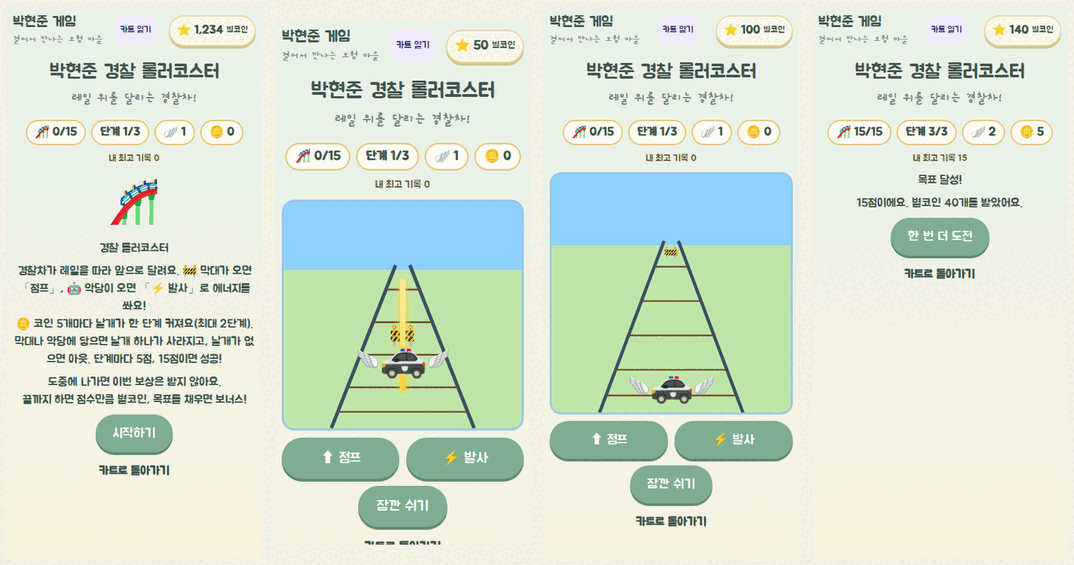
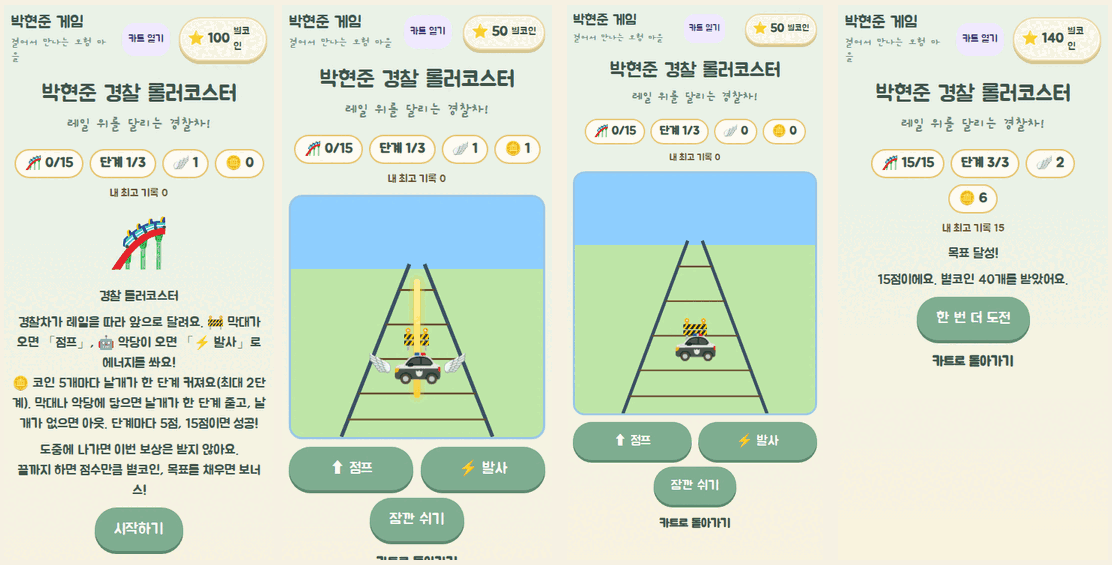
Refresh the plan for PRs #65-#68 and retake the coaster strip
Record the merged decisions, robot preview and roller coaster in the
next-actions plan, add the header coin badge wrap (A8) and start-screen
art question (B8), and replace the coaster strip with live-site shots
that show the final intro text.

Claude-Session: https://claude.ai/code/session_01MZze2FGy8ZHKbdy2SZDpfz

diff --git a/docs/superpowers/plans/2026-11-11-next-actions.md b/docs/superpowers/plans/2026-11-11-next-actions.md
@@ -1,6 +1,6 @@
 # 다음 작업 계획과 액션 아이템 (2026-11-11)
 
-> 기준: `origin/main` `0a94cf3`(2026-11-14, PR #64까지 병합·배포). 처음 작성은 2026-11-11 `344d819`(PR #56) 기준이었다.
+> 기준: `origin/main` `dc7f415`(2026-11-15, PR #68까지 병합·배포). 처음 작성은 2026-11-11 `344d819`(PR #56) 기준이었다.
 > 표기: FACT · PROPOSED · DECISION REQUIRED · NOT_RUN. 루트 `MEMORY.md`의 "다음 작업"은 이 문서를 가리킨다.
 
 ## 1. 중간 점검 (FACT)
@@ -10,8 +10,9 @@
 | 시작 화면 → 로딩 → 월드 | 배포됨 (PR #53) | [world-entry](../../world-expansion/2026-11-07-world-entry/README.md) |
 | 로켓 · 로켓 X · 듀얼 로켓 | 배포됨 (PR #54 · #56): 자동차 변신, 10초 4단계 합체, 듀얼 로켓 카, 분리 | [rocket-dual-v1](../../robot-fusion/2026-11-08-rocket-dual-v1/README.md) |
 | 카트 미니게임 | **20개 모두 플레이 가능** (PR #57 병합·배포) | [arcade 검증](../../verification/2026-11-10-arcade/README.md) |
-| 카트 큰 게임 | 21개 중 20개 플레이 가능(월드·러너·온실·방 깨기 + 6~9회차 15개, PR #58 병합·배포 + 2026-11-15 경찰 롤러코스터 `lg-21`) + 1개 기존 연결(하우스). **목록 41개 중 준비 중 0** | [큰 게임 검증](../../verification/2026-11-12-large-games/README.md) |
-| 공개 사이트 검사 | 병합 뒤 공개 Pages에서 `verify-arcade` 205/205 PASS(아케이드 34개 × 360·390). PR #64 뒤 고친 4개 게임 25/25 PASS | PR #58 · #64 병합 기록 |
+| 카트 큰 게임 | 21개 중 20개 플레이 가능(월드·러너·온실·방 깨기 + 6~9회차 15개, PR #58 병합·배포 + 경찰 롤러코스터 `lg-21` PR #68 병합·배포) + 1개 기존 연결(하우스). **목록 41개 중 준비 중 0** | [큰 게임 검증](../../verification/2026-11-12-large-games/README.md) · [롤러코스터 검증](../../verification/2026-11-15-coaster/README.md) |
+| 로봇 시계 「곧 만날 로봇」 | 배포됨 (PR #67): 블루카비·황금 칼드케이트 그림과 소개만. 로봇 목록·전설·군단·저장은 그대로 | [blue-gold §6.1](../../robot-fusion/2026-11-08-blue-gold/README.md) |
+| 공개 사이트 검사 | 병합 뒤 공개 Pages에서 `verify-arcade` 205/205 PASS(아케이드 34개 × 360·390). PR #64 뒤 고친 4개 게임 25/25 PASS. PR #67 뒤 `verify-robot-roster` PASS(미리보기 포함), PR #68 뒤 롤러코스터 7/7 · `verify-world-entry` · `verify-kart-hub`(41개) PASS | PR #58 · #64 · #67 · #68 병합 기록 |
 | Lovable 제거 | 2026-11-13부터 쓰지 않음. 문서·`.lovable/` 정리(PR #62), 빌드 래퍼·미리보기 로그인 중개 제거와 `bun.lock`을 기본 npm 레지스트리로(PR #63) | PR #62 · #63 |
 | 저장 | 키 `hyunjun-game-v2`, version 3 유지. 미니게임 최고 기록 `arcadeBest` 추가(옛 저장은 0) | `src/lib/world-model.ts` |
 | 실기기 UAT | NOT_RUN (삼성 브라우저·S Pen·iOS) | 모든 기능 공통 |
@@ -66,7 +67,7 @@
 
 회차마다: `npm run check` → `build` → `build:pages` → `verify-arcade`(새 게임) → `verify-kart-hub`·`verify-world-entry`·`verify-peanuts`를 하나씩 순서대로. 마지막 회차에 로봇·생활 회귀와 독립 리뷰 1회.
 
-## 3. 액션 아이템 (2026-11-12 갱신)
+## 3. 액션 아이템 (2026-11-15 갱신)
 
 ### A. 에이전트
 
@@ -78,7 +79,8 @@
 | A3 | 병합 뒤 공개 주소 검사와 브랜치 정리 | 완료. 공개 Pages `verify-arcade` 205/205, 병합된 브랜치·worktree 삭제 |
 | A4 | 독립 코드 리뷰 | 2026-11-14: Codex는 다시 402(워크스페이스 비활성)라 Claude `/code-review`(high)로 대신했다(PR #64). 아케이드·미니/큰 게임 엔진·저장·빌드 설정 대상 10건 중 고침: 전설 합체 순서에 같은 부품이 연달아 나와 한 번 깜박임처럼 보이던 문제(회귀 테스트 추가), 자동차 챔피언 안내문(라이벌은 부스트 없는 차보다 느림), 꾹 누르는 버튼(하늘 러너·파도타기)이 휴대폰 길게 누르기 메뉴로 풀리던 문제, 끝난 순간 일시정지되면 정산되지 않던 문제, 장식 환불·사탕 보상의 돈 상한, 아무 데도 안 쓰던 `src/integrations/supabase`(가족방과 같은 로그인 저장 키를 써서 토큰 갱신이 충돌할 수 있었음) 삭제. 고치지 않음: dev 서버 `host: "::"`(Lovable 래퍼도 샌드박스 밖에서 같은 값이었음, 동작 변화 없음), 카운트다운 중복·`seeded()` 중복은 2026-11-14 정리 PR에서 공통 `countdown()`으로 묶고 `seeded()`를 지웠다(D2) |
 | A5 | 난이도 조정 PR | B1·B4 결과가 나오면. 너무 어렵거나 쉬운 게임의 목표 수·시간·단계만 고친다 |
-| A6 | 로봇 계획 v0.2 구현 (블루카비·황금 칼드케이트 포함) | 1단계 완료(2026-11-14): R-01~R-08 기본 동작 승인에 따라 시계 「곧 만날 로봇」 미리보기만. 로봇 종류·저장·군단·전설은 그대로([blue-gold §6.1](../../robot-fusion/2026-11-08-blue-gold/README.md)). 실제 변신·황금 전기·합체 확장과 티라 외형·레인보우 삼총사는 B6 남은 결정 뒤 |
+| A6 | 로봇 계획 v0.2 구현 (블루카비·황금 칼드케이트 포함) | 1단계 병합·배포(PR #67): R-01~R-08 기본 동작 승인에 따라 시계 「곧 만날 로봇」 미리보기만. 로봇 종류·저장·군단·전설은 그대로([blue-gold §6.1](../../robot-fusion/2026-11-08-blue-gold/README.md)). 실제 변신·황금 전기·합체 확장과 티라 외형·레인보우 삼총사는 B6 남은 결정 뒤 |
+| A8 | 위쪽 별코인 배지: 360 폭에서 세 자리 수(100 이상)일 때 「별코인」 글자가 두 줄로 접힌다(2026-11-15 공개 사이트 롤러코스터 화면에서 발견, 가로 스크롤은 없음) | 할 일. 공통 머리말이라 모든 아케이드 화면에 해당 |
 
 ### B. 보호자 확인이 필요한 것 (DECISION REQUIRED)
 
@@ -88,9 +90,10 @@
 | B2 | 듀얼 로켓 합체 10초가 길지 않은가 (rocket Q-01) | **DECISION (2026-11-14): 10초 유지.** 실기기 놀이에서 지루하면 다시 연다 |
 | B3 | 로켓 카드를 시계 맨 앞으로 옮길까 (rocket P-07) | **DECISION (2026-11-14): 「다른 로봇」 칸 유지** |
 | B4 | 미니게임·큰 게임 잠정 규칙과 난이도(목표 수·시간·단계) | **DECISION (2026-11-14): §2 규칙 승인.** 난이도 숫자 조정(A5)은 실기기 놀이(B1) 결과가 나오면 |
-| B5 | 롤러코스터를 목록 40개 안에 넣을지(D-6) | **DECISION (2026-11-15): 롤러코스터를 큰 게임 `lg-21`로 추가**(보호자 요청 「박현준 롤러 코스터 없음. 만들어줘」), 카트 목록 41개. 월드의 준비 중 장소가 이 게임을 연다 |
+| B5 | 롤러코스터를 목록 40개 안에 넣을지(D-6) | **DECISION (2026-11-15): 롤러코스터를 큰 게임 `lg-21`로 추가**(보호자 요청 「박현준 롤러 코스터 없음. 만들어줘」), 카트 목록 41개. 월드의 준비 중 장소가 이 게임을 연다. PR #68 병합·배포 |
 | B6 | 로봇 중심 실행계획 v0.2의 남은 질문: 티라 외형 변경, 레인보우 삼총사(골드·에메랄드·다이아몬드), 황금 전기·성장(D-2·D-3) | 결정 대기 |
 | B7 | 실명 노출 범위(D-7): 새 게임 이름도 「박현준 …」 | **DECISION (2026-11-14): 기존 브랜드 유지**(「박현준 게임」 + 부제). 새 게임 이름에 실명을 더하지 않는다 |
+| B8 | 시작 화면 그림을 블루카비로 바꿀지 | 결정 대기. 지금은 기존 그림 |
 
 ### C. 정리
 
@@ -103,6 +106,8 @@
 | C5 | `verify-family-performance` 기준 재설정 | 완료 (PR #64). 기본값을 CPU 감속 없음·이동 30fps 이상·실제 이동 확인으로 바꿨다. 기준선(2026-11-14, 8코어 WSL headless): 1배 이동 56~58fps, 4배 감속 6~12fps(흔들림이 커서 기준으로 쓰지 않고 `PHJ_CPU_RATE=4 PHJ_MIN_FPS=0`으로 기록만). 다른 작업과 동시에 돌리면 같은 빌드가 약 20fps로 떨어지므로 혼자 돌린다 |
 | A7 | 이 문서에 PR #59~#64 반영 | 완료 (PR #64, 상태 표기 보정 D1) |
 | C6 | `chore/untrack-env-20261108`: `.env` 추적 해제 | 완료 (PR #59) |
-| C7 | `legacy/park-runner-game` 보관 폴더 삭제 | 완료 (2026-11-14 보호자 승인). 이력은 git(PR #55)에 남는다 |
-| D1 | 이 문서의 옛 상태 표기(C1·C2) 보정, PR #64 반영 | 완료 |
-| D2 | 리뷰 정리 거리: 시간제 게임 8개의 같은 시간 코드를 `arcade.ts` `countdown()`으로, 쓰이지 않던 `seeded()` 삭제 | 완료 |
+| C7 | `legacy/park-runner-game` 보관 폴더 삭제 | 완료 (2026-11-14 보호자 승인, PR #66). 이력은 git(PR #55)에 남는다 |
+| D1 | 이 문서의 옛 상태 표기(C1·C2) 보정, PR #64 반영 | 완료 (PR #65) |
+| D2 | 리뷰 정리 거리: 시간제 게임 8개의 같은 시간 코드를 `arcade.ts` `countdown()`으로, 쓰이지 않던 `seeded()` 삭제 | 완료 (PR #65) |
+| D3 | 이 문서에 PR #65~#68 반영 | 완료 |
+| D4 | 롤러코스터 검증 스크린샷 띠를 마지막 안내 문구로 다시 찍기 | 완료. 공개 사이트에서 다시 찍음 |

diff --git a/docs/verification/2026-11-15-coaster/README.md b/docs/verification/2026-11-15-coaster/README.md
@@ -16,7 +16,9 @@
 | 목표 · 보상 | 15점이면 성공. 점수 × 2 + 완주 보너스 10 = 한 판 최대 40 별코인 |
 | 바뀌지 않은 것 | 로봇 카드·등급·부품, 저장 형식(v3), 다른 게임 |
 
-![월드 입구 · 플레이 360 · 플레이 390 · 성공](coaster-strip.png)
+![안내 화면 360 · 플레이 360 · 플레이 390 · 성공 360](coaster-strip.png)
+
+스크린샷 띠는 PR #68 배포 뒤 공개 사이트에서 다시 찍었다(2026-11-15). 안내 화면에 마지막 문구 「날개가 한 단계 줄고」가 보인다. 플레이 390은 막대에 한 번 부딪혀 날개가 0인 순간이다. 위쪽 별코인 배지는 세 자리 수에서 「별코인」이 두 줄로 접힌다(계획 문서 A8, 가로 스크롤 없음).
 
 ## 검증
 
@@ -29,4 +31,5 @@
 | `verify-arcade` 전체 | PASS 211/211 | 게임 35개 × 360·390, 없는 게임 주소 |
 | `verify-world-entry` | PASS | 롤러코스터 입구가 「경찰 롤러코스터 · 시작」으로 보이고, 누르면 `#/mini/coaster`가 열림(360·390·1280) |
 | `verify-kart-hub` · `verify-peanuts` · `verify-living-world` | PASS | 카트 목록 41개 |
+| 공개 사이트 (PR #68 배포 뒤) | PASS | `verify-arcade`(`PHJ_ARCADE=coaster`) 7/7, `verify-world-entry`, `verify-kart-hub` 41개 |
 | 실기기(삼성 브라우저·S Pen) | NOT_RUN | |
